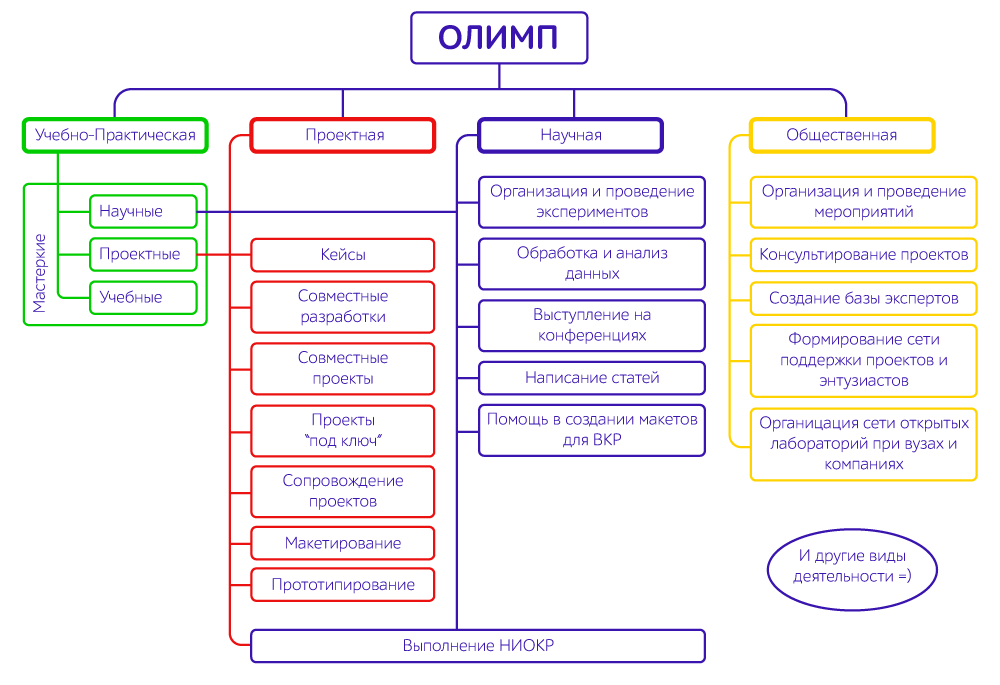
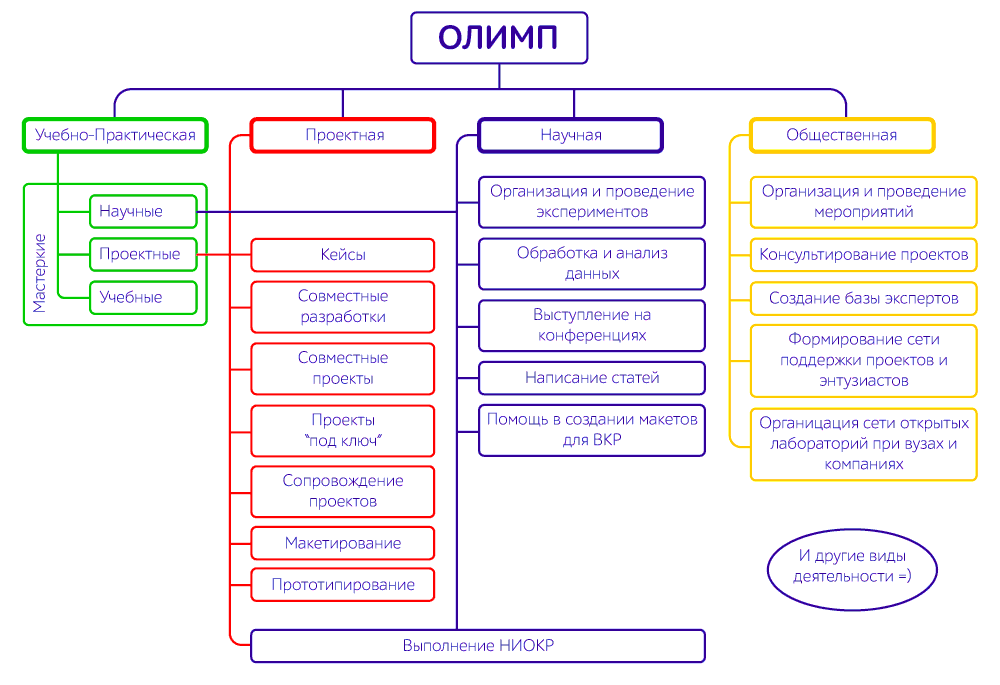
Optimize images

diff --git a/index.html b/index.html
@@ -40,7 +40,7 @@
       <h2>Концепция</h2>
       <section class="c1">
         <div class="right">
-         <img src="img/mission.png">
+         <img src="img/mission.jpg">
         </div>
         <div class="left">
           <h3>Миссия</h3>
@@ -49,7 +49,7 @@
       </section>
       <section class="c2">
         <div class="left">
-         <img src="img/goals.png">
+         <img src="img/goals.jpg">
         </div>
         <div class="right">
         <h3>Цели</h3>
@@ -82,19 +82,19 @@
       </div>
       <h2>Принципы</h2>
       <figure class="princip">
-        <img src="img/principles/1.png" alt="Кооперация">
+        <img src="img/principles/1.jpg" alt="Кооперация">
         <figcaption>Кооперация</figcaption>
       </figure>
       <figure class="princip">
-        <img src="img/principles/2.png" alt="Взаимопомощь">
+        <img src="img/principles/2.jpg" alt="Взаимопомощь">
         <figcaption>Взаимопомощь</figcaption>
       </figure>
       <figure class="princip">
-        <img src="img/principles/3.png" alt="Доверие">
+        <img src="img/principles/3.jpg" alt="Доверие">
         <figcaption>Доверие</figcaption>
       </figure>
       <figure class="princip">
-        <img src="img/principles/4.png" alt="Верность слову">
+        <img src="img/principles/4.jpg" alt="Верность слову">
         <figcaption>Ответственность за свое слово</figcaption>
       </figure>
     </section>

diff --git a/css/style.css b/css/style.css
@@ -274,7 +274,6 @@ figcaption{
 
 .circle{
   position: absolute;
-
   box-sizing: border-box;
   width: 100% ;
   height: 100%;
